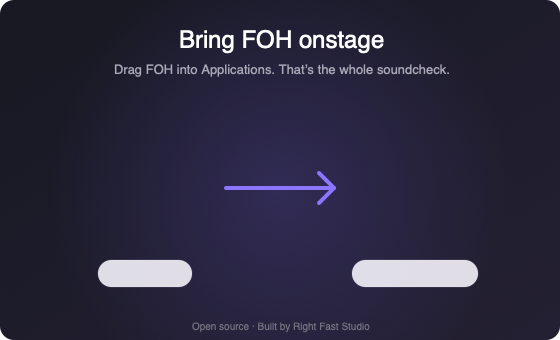
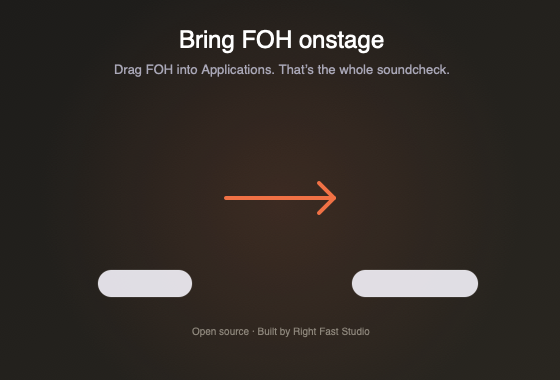
Polish onboarding, scenes, and DMG layout

diff --git a/FOH/Views/ScenesView.swift b/FOH/Views/ScenesView.swift
@@ -36,8 +36,12 @@ struct ScenesView: View {
                 HStack {
                     TextField("New scene name", text: $newSceneName)
                         .textFieldStyle(.roundedBorder)
+                        .controlSize(.large)
                         .onSubmit(addScene)
-                    Button("Add Scene", action: addScene)
+                    Button(action: addScene) {
+                        Label("Add Scene", systemImage: "plus")
+                    }
+                        .controlSize(.large)
                         .disabled(newSceneName.trimmingCharacters(in: .whitespacesAndNewlines).isEmpty)
                 }
                 .frame(maxWidth: 480)
@@ -50,6 +54,7 @@ struct ScenesView: View {
 
     private func sceneCard(_ scene: AudioScene) -> some View {
         let isActive = appState.activeSceneID == scene.id
+        let isConfigured = scene.inputDeviceID != nil || scene.outputDeviceID != nil
         return VStack(alignment: .leading, spacing: 16) {
             HStack {
                 Image(systemName: scene.symbolName)
@@ -74,13 +79,16 @@ struct ScenesView: View {
             devicePicker("Microphone", icon: "mic.fill", direction: .input, scene: scene)
             devicePicker("Listening", icon: "headphones", direction: .output, scene: scene)
 
-            Button(isActive ? "Scene Active" : "Activate Scene") {
+            Button {
                 appState.activateScene(scene.id)
+            } label: {
+                Text(isActive ? "Scene Active" : isConfigured ? "Activate \(scene.name)" : "Choose a device to activate")
+                    .frame(maxWidth: .infinity)
             }
             .buttonStyle(.borderedProminent)
+            .tint(FOHTheme.signal)
             .controlSize(.large)
-            .frame(maxWidth: .infinity)
-            .disabled(isActive)
+            .disabled(isActive || !isConfigured)
         }
         .padding(20)
         .background(FOHTheme.panel)
@@ -102,10 +110,10 @@ struct ScenesView: View {
             set: { appState.updateSceneDevice(scene.id, direction: direction, deviceID: $0) }
         )
         let choices = appState.priorities(for: direction)
-        return HStack {
+        return HStack(spacing: 12) {
             Label(title, systemImage: icon)
                 .foregroundStyle(.secondary)
-            Spacer()
+                .frame(width: FOHTheme.formLabelWidth, alignment: .leading)
             Picker(title, selection: selection) {
                 Text("Choose device").tag(String?.none)
                 ForEach(choices) { priority in
@@ -114,7 +122,8 @@ struct ScenesView: View {
                 }
             }
             .labelsHidden()
-            .frame(maxWidth: 190)
+            .controlSize(.large)
+            .frame(maxWidth: .infinity)
         }
     }
 

diff --git a/FOH/Views/OnboardingView.swift b/FOH/Views/OnboardingView.swift
@@ -30,14 +30,10 @@ struct OnboardingView: View {
 
     private var header: some View {
         HStack(spacing: 22) {
-            HStack(spacing: 9) {
-                ZStack {
-                    RoundedRectangle(cornerRadius: 5).fill(FOHTheme.signal)
-                    Image(systemName: "slider.horizontal.3").font(.system(size: 14, weight: .semibold)).foregroundStyle(.white)
-                }
-                .frame(width: 30, height: 30)
-                Text("FOH").font(.headline.weight(.bold))
-            }
+            Text("FOH")
+                .font(.headline.weight(.bold))
+                .foregroundStyle(FOHTheme.ink)
+                .accessibilityAddTraits(.isHeader)
             Spacer()
             HStack(spacing: 8) {
                 ForEach(steps.indices, id: \.self) { index in
@@ -135,7 +131,8 @@ struct OnboardingView: View {
                             }
                         }
                         .toggleStyle(.switch).disabled(!installed).opacity(installed ? 1 : 0.52)
-                        .padding(.horizontal, 14).frame(height: 54)
+                        .padding(.horizontal, 16)
+                        .frame(maxWidth: .infinity, minHeight: 54, alignment: .leading)
                         .background(FOHTheme.panel)
                         .overlay(alignment: .bottom) { FOHSectionRule() }
                     }
@@ -202,9 +199,12 @@ struct OnboardingView: View {
                     Text(title).font(.callout.weight(.semibold))
                     Text(detail).font(.caption).foregroundStyle(.secondary)
                 }
+                Spacer(minLength: 16)
             }
         }
-        .toggleStyle(.switch).padding(.horizontal, 16).frame(height: 62)
+        .toggleStyle(.switch)
+        .padding(.horizontal, 16)
+        .frame(maxWidth: .infinity, minHeight: FOHTheme.controlRowHeight, alignment: .leading)
         .background(FOHTheme.panel)
         .overlay { RoundedRectangle(cornerRadius: FOHTheme.panelRadius).stroke(FOHTheme.rule, lineWidth: 0.7) }
     }
@@ -215,7 +215,8 @@ struct OnboardingView: View {
             Text("\(count)").font(.headline.monospacedDigit())
             Text(label).font(.callout).foregroundStyle(.secondary)
         }
-        .padding(.horizontal, 14).frame(height: 38)
+        .padding(.horizontal, 14)
+        .frame(maxWidth: .infinity, minHeight: 38, alignment: .leading)
         .background(FOHTheme.signal.opacity(0.07), in: RoundedRectangle(cornerRadius: 5))
     }
 

diff --git a/FOH/Views/FOHTheme.swift b/FOH/Views/FOHTheme.swift
@@ -15,6 +15,8 @@ enum FOHTheme {
 
     static let panelRadius: CGFloat = 7
     static let pageWidth: CGFloat = 920
+    static let formLabelWidth: CGFloat = 108
+    static let controlRowHeight: CGFloat = 62
 
     private static func adaptive(light: UInt32, dark: UInt32) -> Color {
         Color(nsColor: NSColor(name: nil) { appearance in

diff --git a/Design/DMG/dmg_settings.py b/Design/DMG/dmg_settings.py
@@ -10,7 +10,7 @@ compression_level = 9
 files = [application]
 symlinks = {"Applications": "/Applications"}
 background = background_image
-window_rect = ((200, 120), (560, 340))
+window_rect = ((200, 120), (560, 380))
 default_view = "icon-view"
 show_status_bar = False
 show_tab_view = False
@@ -20,8 +20,8 @@ show_sidebar = False
 show_icon_preview = True
 
 icon_locations = {
-    "FOH.app": (145, 188),
-    "Applications": (415, 188),
+    "FOH.app": (145, 198),
+    "Applications": (415, 198),
 }
 icon_size = 128
 text_size = 14
